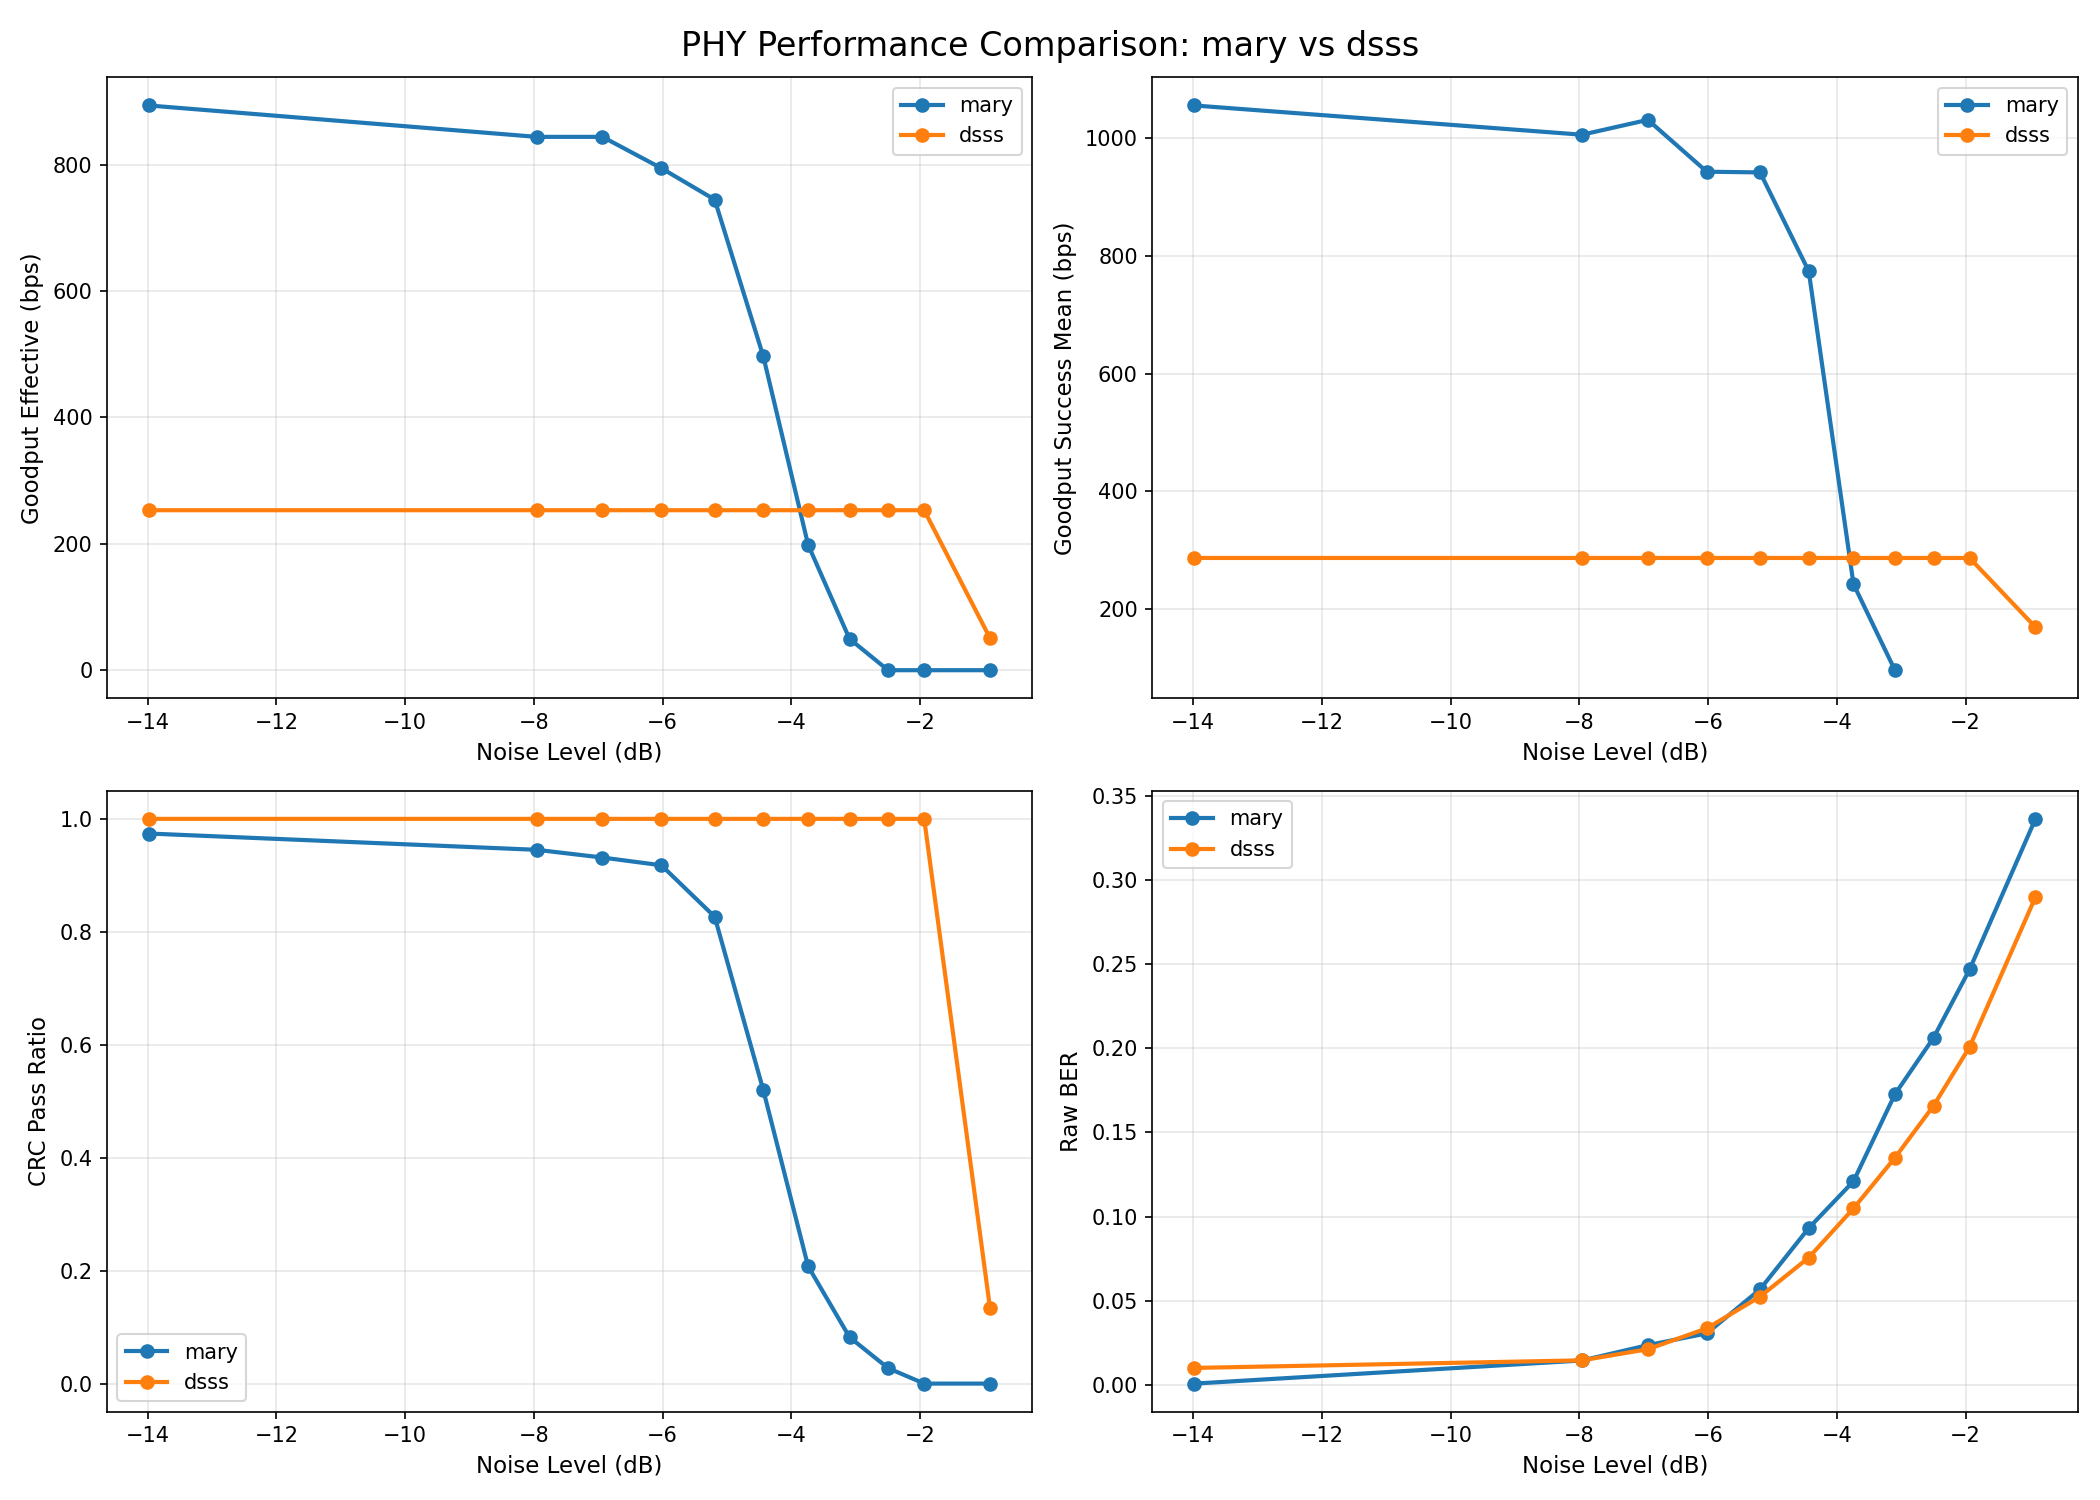
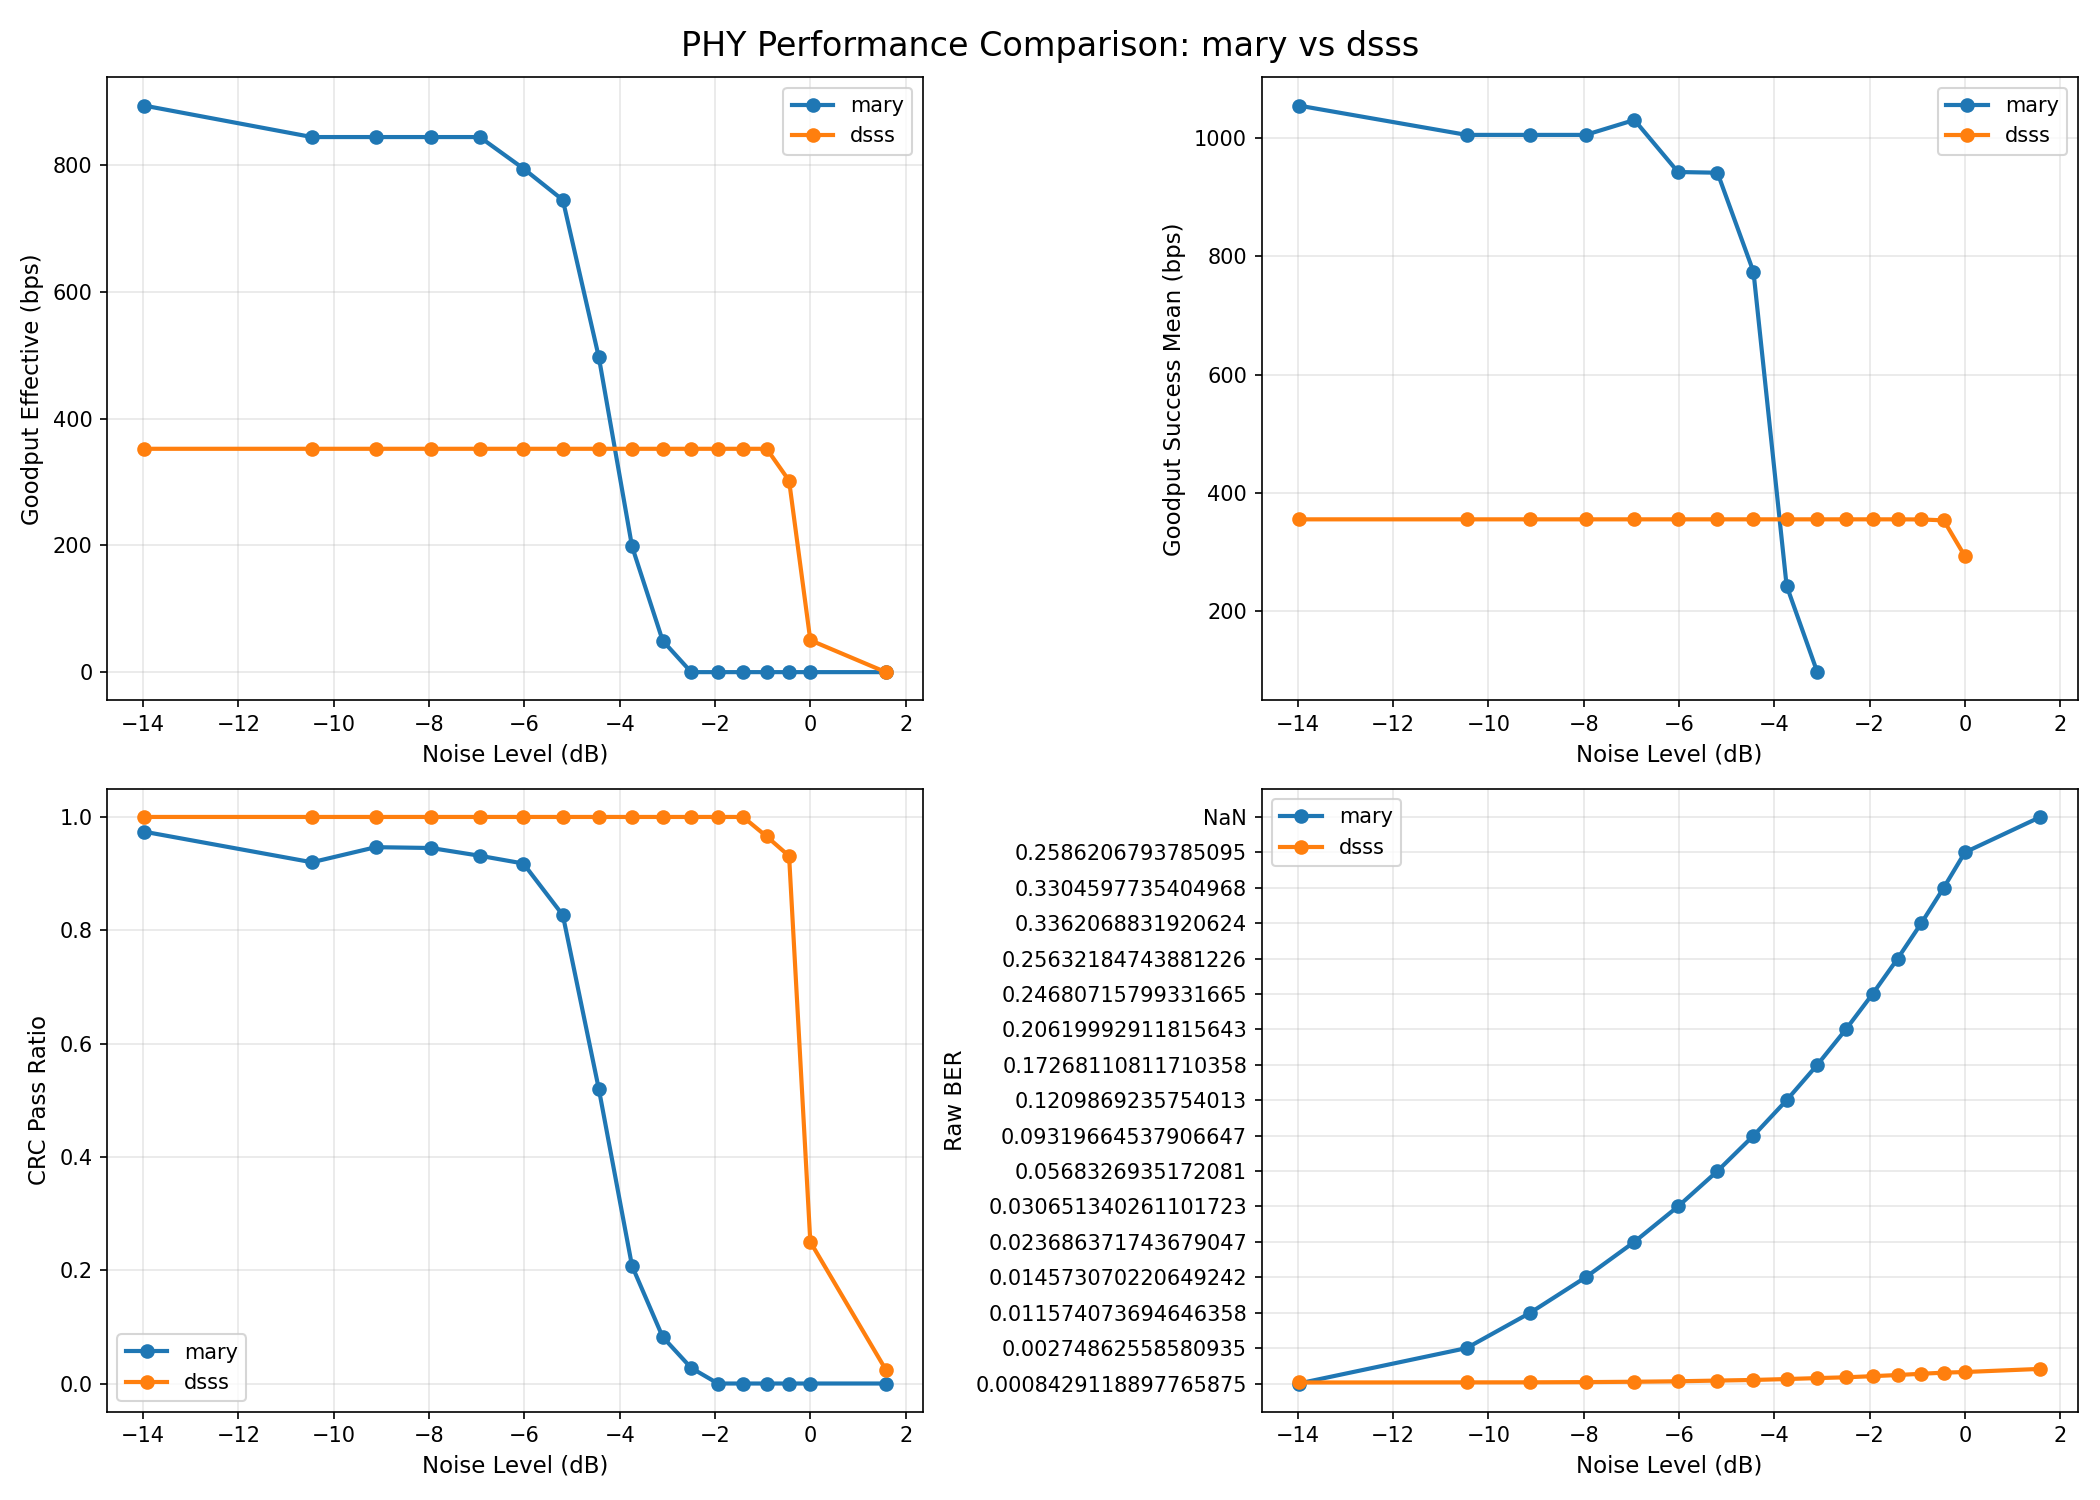
update

diff --git a/dsp/src/dsss/decoder.rs b/dsp/src/dsss/decoder.rs
@@ -107,6 +107,8 @@ pub struct Decoder {
     pub stats_synced_frames: usize,
     tracking_llr_buffer: Vec<f32>,
     best_attempt_llr_buffer: Vec<f32>,
+    tracking_packets_buffer: Vec<Packet>,
+    best_attempt_packets_buffer: Vec<Packet>,
     pub llr_callback: Option<LlrCallback>,
 }
 
@@ -122,7 +124,7 @@ struct TrackingState {
 
 #[derive(Debug)]
 struct PayloadDecodeAttempt {
-    packets: Vec<Packet>,
+    packet_count: usize,
     crc_errors: usize,
     parse_errors: usize,
 }
@@ -200,6 +202,7 @@ impl Decoder {
         let fec_bits = raw_bits * 2;
         let il_rows = 16;
         let il_cols = fec_bits.div_ceil(16);
+        let packets_per_burst = dsp_config.packets_per_burst.max(1);
         let lo_nco = Nco::new(-dsp_config.carrier_freq, dsp_config.sample_rate);
 
         // リサンプラのカットオフ設定:
@@ -271,6 +274,8 @@ impl Decoder {
             stats_synced_frames: 0,
             tracking_llr_buffer: Vec::with_capacity(fec_bits),
             best_attempt_llr_buffer: Vec::with_capacity(fec_bits),
+            tracking_packets_buffer: Vec::with_capacity(packets_per_burst),
+            best_attempt_packets_buffer: Vec::with_capacity(packets_per_burst),
             llr_callback: None,
         }
     }
@@ -422,13 +427,12 @@ impl Decoder {
                 self.current_sync = None;
                 continue;
             };
-            let decoded_packets = attempt.packets;
             let crc_errors = attempt.crc_errors;
             let parse_errors = attempt.parse_errors;
             self.crc_error_packets += crc_errors;
             self.parse_error_packets += parse_errors;
 
-            if decoded_packets.is_empty() || crc_errors > 0 {
+            if attempt.packet_count == 0 || crc_errors > 0 {
                 // payload が全滅した候補は境界ずれとして破棄する。
                 if self.fountain_decoder.received_count() == 0 && self.crc_error_packets < 20 {
                     // 起動直後だけ同期長ぶん先へ寄せて再探索し、誤同期固定化を崩す。
@@ -444,7 +448,9 @@ impl Decoder {
                 continue;
             }
 
-            for packet in decoded_packets {
+            let mut decoded_packets = Vec::new();
+            std::mem::swap(&mut decoded_packets, &mut self.best_attempt_packets_buffer);
+            for packet in decoded_packets.drain(..) {
                 // ... (FountainDecoder への供給ロジック) ...
                 let pkt_k = packet.lt_k as usize;
                 if pkt_k != self.fountain_decoder.params().k {
@@ -480,6 +486,8 @@ impl Decoder {
                     self.recovered_data = Some(data);
                 }
             }
+            decoded_packets.clear();
+            std::mem::swap(&mut decoded_packets, &mut self.best_attempt_packets_buffer);
             // 受信窓をバースト分前進させる
             let actual_end = (payload_start
                 + burst_data_bits_len / bits_per_symbol_payload * sf * spc)
@@ -643,6 +651,7 @@ impl Decoder {
         fec_bits_len: usize,
         p_bits_len: usize,
         llrs: &mut Vec<f32>,
+        decoded_packets: &mut Vec<Packet>,
     ) -> Option<PayloadDecodeAttempt> {
         let spc = self.config.proc_samples_per_chip().max(1) as f32;
         let timing_limit = spc * TRACKING_TIMING_LIMIT_CHIP;
@@ -655,10 +664,10 @@ impl Decoder {
             pn,
             llrs,
         )?;
-        let (packets, crc_errors, parse_errors) =
-            self.parse_payload_packets(llrs, fec_bits_len, p_bits_len);
+        let (crc_errors, parse_errors) =
+            self.parse_payload_packets_into(llrs, fec_bits_len, p_bits_len, decoded_packets);
         Some(PayloadDecodeAttempt {
-            packets,
+            packet_count: decoded_packets.len(),
             crc_errors,
             parse_errors,
         })
@@ -668,8 +677,8 @@ impl Decoder {
         candidate: &PayloadDecodeAttempt,
         best: &PayloadDecodeAttempt,
     ) -> bool {
-        candidate.packets.len() > best.packets.len()
-            || (candidate.packets.len() == best.packets.len()
+        candidate.packet_count > best.packet_count
+            || (candidate.packet_count == best.packet_count
                 && (candidate.crc_errors < best.crc_errors
                     || (candidate.crc_errors == best.crc_errors
                         && candidate.parse_errors < best.parse_errors)))
@@ -689,8 +698,14 @@ impl Decoder {
 
         let mut attempt_llrs = Vec::new();
         let mut best_llrs = Vec::new();
+        let mut attempt_packets = Vec::new();
+        let mut best_packets = Vec::new();
         std::mem::swap(&mut attempt_llrs, &mut self.tracking_llr_buffer);
         std::mem::swap(&mut best_llrs, &mut self.best_attempt_llr_buffer);
+        std::mem::swap(&mut attempt_packets, &mut self.tracking_packets_buffer);
+        std::mem::swap(&mut best_packets, &mut self.best_attempt_packets_buffer);
+        attempt_packets.clear();
+        best_packets.clear();
 
         let mut best: Option<PayloadDecodeAttempt> = None;
         for timing_bias in timing_biases {
@@ -703,6 +718,7 @@ impl Decoder {
                 fec_bits_len,
                 p_bits_len,
                 &mut attempt_llrs,
+                &mut attempt_packets,
             ) {
                 let replace = best
                     .as_ref()
@@ -710,29 +726,44 @@ impl Decoder {
                 if replace {
                     best_llrs.clear();
                     best_llrs.extend_from_slice(&attempt_llrs);
+                    std::mem::swap(&mut best_packets, &mut attempt_packets);
                     best = Some(attempt);
                 }
             }
         }
         if best.is_some() {
             self.emit_packet_llr_callbacks(&best_llrs, fec_bits_len);
+        } else {
+            best_packets.clear();
         }
 
         attempt_llrs.clear();
         best_llrs.clear();
+        attempt_packets.clear();
         std::mem::swap(&mut attempt_llrs, &mut self.tracking_llr_buffer);
         std::mem::swap(&mut best_llrs, &mut self.best_attempt_llr_buffer);
+        std::mem::swap(&mut attempt_packets, &mut self.tracking_packets_buffer);
+        std::mem::swap(&mut best_packets, &mut self.best_attempt_packets_buffer);
 
         best
     }
 
-    fn parse_payload_packets(
+    fn parse_payload_packets_into(
         &mut self,
         payload_llrs: &[f32],
         fec_bits_len: usize,
         p_bits_len: usize,
-    ) -> (Vec<Packet>, usize, usize) {
-        let mut decoded_packets = Vec::new();
+        decoded_packets: &mut Vec<Packet>,
+    ) -> (usize, usize) {
+        decoded_packets.clear();
+        let packet_capacity = if fec_bits_len > 0 {
+            payload_llrs.len() / fec_bits_len
+        } else {
+            0
+        };
+        if decoded_packets.capacity() < packet_capacity {
+            decoded_packets.reserve(packet_capacity - decoded_packets.capacity());
+        }
         let mut crc_errors = 0usize;
         let mut parse_errors = 0usize;
         self.deinterleave_buffer.resize(fec_bits_len, 0.0);
@@ -762,7 +793,7 @@ impl Decoder {
                 Err(PacketParseError::InvalidLength { .. }) => parse_errors += 1,
             }
         }
-        (decoded_packets, crc_errors, parse_errors)
+        (crc_errors, parse_errors)
     }
 
     fn emit_packet_llr_callbacks(&mut self, payload_llrs: &[f32], fec_bits_len: usize) {
@@ -968,6 +999,8 @@ impl Decoder {
         self.stats_synced_frames = 0;
         self.tracking_llr_buffer.clear();
         self.best_attempt_llr_buffer.clear();
+        self.tracking_packets_buffer.clear();
+        self.best_attempt_packets_buffer.clear();
         self.rebuild_fountain_decoder(self.fountain_decoder.params().k);
     }
 
@@ -1583,8 +1616,7 @@ mod tests {
             "ideal first frame should have no parse errors"
         );
         assert_eq!(
-            attempt.packets.len(),
-            1,
+            attempt.packet_count, 1,
             "ideal first frame should decode one packet"
         );
     }
@@ -1663,8 +1695,7 @@ mod tests {
                 frame_idx
             );
             assert_eq!(
-                attempt.packets.len(),
-                1,
+                attempt.packet_count, 1,
                 "isolated ideal frame {} should decode one packet",
                 frame_idx
             );
@@ -1690,8 +1721,13 @@ mod tests {
             8.0,
         ));
 
-        let (packets, crc_errors, parse_errors) =
-            decoder.parse_payload_packets(&payload_llrs, fec_bits_len, p_bits_len);
+        let mut packets = Vec::new();
+        let (crc_errors, parse_errors) = decoder.parse_payload_packets_into(
+            &payload_llrs,
+            fec_bits_len,
+            p_bits_len,
+            &mut packets,
+        );
 
         assert_eq!(packets, vec![valid_packet]);
         assert_eq!(crc_errors, 1);

diff --git a/scripts/phy_eval/plot_comparison.py b/scripts/phy_eval/plot_comparison.py
@@ -7,7 +7,7 @@ import os
 import re
 import math
 
-def run_eval(phy, packets_per_frame="3", sweep_awgn="0.2,0.40,0.45,0.50,0.55,0.60,0.65,0.70,0.75,0.8,0.9",
+def run_eval(phy, packets_per_frame="3", sweep_awgn="0.2,0.3,0.35,0.40,0.45,0.50,0.55,0.60,0.65,0.70,0.75,0.8,0.85,0.9,0.95,1.0,1.2",
              columns="scenario,crc_pass_ratio,goodput_effective_bps,goodput_success_mean_bps,ebn0_db,raw_ber",
              mode="sweep-awgn", **extra_args):
     """指定された PHY で評価を実行し、JSON 結果を返す
@@ -74,7 +74,9 @@ def main():
         {
             "name": "dsss",
             "phy": "dsss",
-            "args": {}
+            "args": {
+                "packets_per_frame": "1",
+            }
         }
     ]
 

diff --git a/README.md b/README.md
@@ -256,8 +256,8 @@ $ cargo run --release --bin dsss_e2e_eval -- \
 | sweep_awgn(sigma=0.200)        | 22.5643         | 0.9494          | 1.0000          | 0.9825          | 0.0011          | 950.6408        | 1081.7372       |
 | sweep_awgn(sigma=0.300)        | 19.0425         | 0.9367          | 1.0000          | 0.9737          | 0.0028          | 942.1530        | 1078.2352       |
 | sweep_awgn(sigma=0.400)        | 16.5437         | 0.8987          | 1.0000          | 0.9638          | 0.0107          | 899.7136        | 1030.1471       |
-| sweep_awgn(sigma=0.500)        | 14.6055         | 0.8017          | 1.0000          | 0.8796          | 0.0364          | 806.3471        | 968.5352        |
-| sweep_awgn(sigma=0.700)        | 11.6830         | 0.0380          | 1.0000          | 0.0433          | 0.1786          | 33.9515         | 58.2429         |
+| sweep_awgn(sigma=0.500)        | 14.6055         | 0.8228          | 1.0000          | 0.9028          | 0.0364          | 823.3229        | 973.6337        |
+| sweep_awgn(sigma=0.700)        | 11.6830         | 0.0506          | 1.0000          | 0.0577          | 0.1786          | 50.9272         | 84.9203         |
 | sweep_awgn(sigma=0.800)        | 10.5231         | 0.0021          | 1.0000          | 0.0025          | 0.2615          | 0.0000          | -               |
 | sweep_awgn(sigma=0.900)        | 9.5001          | 0.0000          | 1.0000          | 0.0000          | 0.3701          | 0.0000          | -               |
 
@@ -280,10 +280,10 @@ $ cargo run --release --bin dsss_e2e_eval -- \
 | sweep_awgn(sigma=0.200)        | 27.0775         | 1.0000          | 1.0000          | 1.0000          | 0.0297          | 365.0326        | 366.1411        |
 | sweep_awgn(sigma=0.300)        | 23.5557         | 1.0000          | 1.0000          | 1.0000          | 0.0317          | 365.0326        | 366.1411        |
 | sweep_awgn(sigma=0.400)        | 21.0569         | 0.9942          | 1.0000          | 0.9942          | 0.0394          | 356.5434        | 361.5864        |
-| sweep_awgn(sigma=0.500)        | 19.1187         | 1.0000          | 1.0000          | 1.0000          | 0.0612          | 365.0326        | 366.1411        |
-| sweep_awgn(sigma=0.700)        | 16.1961         | 0.3663          | 1.0000          | 0.3684          | 0.1545          | 127.3369        | 360.1951        |
-| sweep_awgn(sigma=0.800)        | 15.0363         | 0.3663          | 1.0000          | 0.3684          | 0.2160          | 127.3369        | 360.1951        |
-| sweep_awgn(sigma=0.900)        | 14.0132         | 0.2733          | 0.9826          | 0.2781          | 0.2720          | 93.3804         | 320.0123        |
+| sweep_awgn(sigma=0.500)        | 19.1187         | 1.0000          | 1.0000          | 1.0000          | 0.0610          | 365.0326        | 366.1411        |
+| sweep_awgn(sigma=0.700)        | 16.1961         | 0.3663          | 1.0000          | 0.3684          | 0.1537          | 127.3369        | 360.1951        |
+| sweep_awgn(sigma=0.800)        | 15.0363         | 0.3663          | 1.0000          | 0.3684          | 0.2145          | 127.3369        | 360.1951        |
+| sweep_awgn(sigma=0.900)        | 14.0132         | 0.4244          | 1.0988          | 0.3862          | 0.2730          | 152.8043        | 333.5044        |
 
 ## ライセンス
 
